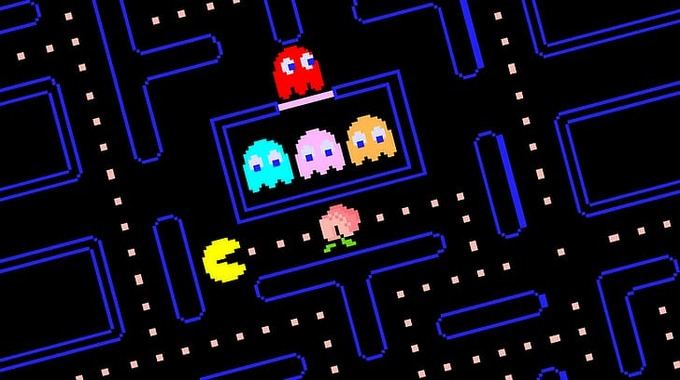
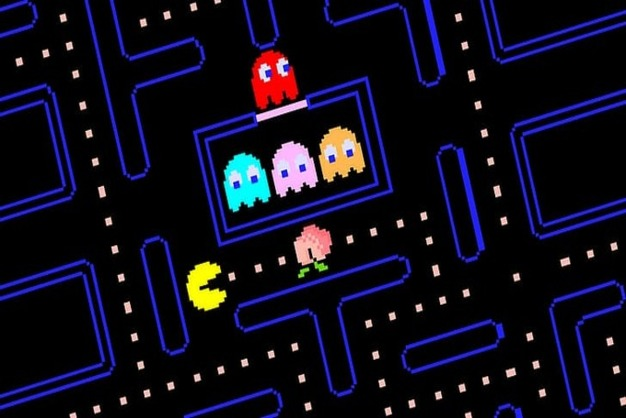
Login page updated

diff --git a/src/components/ErrorPage/ErrorPage.jsx b/src/components/ErrorPage/ErrorPage.jsx
@@ -1,0 +1,76 @@
+import React from 'react';
+
+const ErrorPage = () => {
+    return (
+        <div className="min-h-screen bg-black flex flex-col items-center justify-center p-4 font-mono">
+            <div className="bg-gray-900 border-8 border-gray-800 rounded-lg shadow-2xl p-8 max-w-2xl w-full">
+                <div
+                    className="bg-black text-amber-400 p-6 rounded-md border border-amber-500/20"
+                >
+                    <div className="absolute inset-0 z-10 pointer-events-none opacity-5">
+                        <div className="h-full w-full" style={{
+                            backgroundImage: 'linear-gradient(to bottom, transparent 50%, #2a1d08 50%)',
+                            backgroundSize: '100% 2px',
+                        }}></div>
+                    </div>
+
+
+
+                    <div className="relative z-20">
+                        <header className="mb-8 border-b border-amber-500/50 pb-2">
+                            <h1
+                                className="text-6xl font-extrabold tracking-tight mb-2"
+
+                            >
+                                404
+                            </h1>
+                            <p className="text-xl text-gray-400">Error Code: Page_Not_Found</p>
+                        </header>
+
+                        <section className="space-y-4">
+                            <p className="flex items-center">
+                                <span className="text-amber-300 pr-2">&gt;</span>
+                                Attempting to establish connection with specified directory...
+                            </p>
+                            <p className="flex items-center">
+                                <span className="text-amber-300 pr-2">&gt;</span>
+                                <span className="text-red-500 font-bold">CONNECTION REFUSED.</span> Resource path does not compute.
+                            </p>
+                            <p className="flex items-center">
+                                <span className="text-amber-300 pr-2">&gt;</span>
+                                File or subroutine is currently offline or corrupted.
+                            </p>
+
+                            <div className="pt-6">
+                                <p className="flex items-center mb-4">
+                                    <span className="text-amber-300 pr-2">&gt;</span>
+                                    Please return to the last known stable operating point.
+                                </p>
+
+
+                                <button
+                                    onClick={() => window.location.href = '/'}
+                                    className="px-6 py-3 border-2 border-amber-400 text-amber-400 text-lg uppercase font-bold tracking-widest transition-all duration-300 hover:bg-amber-900/50 rounded-md active:bg-amber-900"
+                                    aria-label="Go back to the homepage"
+                                >
+                                    [ GOTO /HOME ]
+                                </button>
+                            </div>
+                        </section>
+
+                        <footer className="mt-8 pt-4 border-t border-amber-500/50">
+                            <p className="text-sm text-gray-500">
+                                &gt; System Status: <span className="text-yellow-500 font-bold">NON-CRITICAL FAILURE</span>
+                            </p>
+                            <p className="text-sm text-gray-500">
+                                &gt; Console Ready...
+                            </p>
+                        </footer>
+                    </div>
+                </div>
+            </div>
+        </div>
+    );
+};
+
+export default ErrorPage;

diff --git a/src/components/Banner/Banner.jsx b/src/components/Banner/Banner.jsx
@@ -8,27 +8,29 @@ const Banner = () => {
         <div>
 
             <div className="carousel w-full mt-2 border-4 border-black">
-                <div id="item1" className="carousel-item w-full object-contain">
+                <div id="item1" className="carousel-item w-full">
                     <img
                         src={pacMan}
-                        className="w-full" />
+                        className=" w-fit rounded-lg" 
+                        alt="Pac-Man"
+                    />
                 </div>
                 <div id="item2" className="carousel-item w-full">
                     <img
                         src={superMario}
-                        className="w-full" />
+                        className="w-full h-80 object-cover rounded-lg"
+                        alt="Super Mario"
+                    />
                 </div>
                 <div id="item3" className="carousel-item w-full">
                     <img
                         src={spaceInveders}
-                        className="w-full" />
+                        className="w-full h-80 object-cover rounded-lg"
+                        alt="Space Invaders"
+                    />
                 </div>
-                {/* <div id="item4" className="carousel-item w-full">
-                    <img
-                        src="https://img.daisyui.com/images/stock/photo-1665553365602-b2fb8e5d1707.webp"
-                        className="w-full" />
-                </div> */}
             </div>
+
             <div className="flex w-full justify-center gap-2 py-2 ">
                 <a href="#item1" className="p-3 bg-white border-4 border-black rounded hover:bg-[#FFC107] transition-all duration-300 hover:translate-x-[-4px] hover:translate-y-[-4px] hover:shadow-[4px_4px_0px_black] active:translate-x-0 active:translate-y-0 active:shadow-none"></a>
                 <a href="#item2" className="p-3 bg-white border-4 border-black rounded hover:bg-[#FFC107] transition-all duration-300 hover:translate-x-[-4px] hover:translate-y-[-4px] hover:shadow-[4px_4px_0px_black] active:translate-x-0 active:translate-y-0 active:shadow-none"></a>

diff --git a/src/components/GameCard/GameCard.jsx b/src/components/GameCard/GameCard.jsx
@@ -1,32 +1,33 @@
 import React from 'react';
 import { CiStar } from "react-icons/ci";
 
-const GameCard = ({title, rating, category, developer}) => {
+const GameCard = ({title, rating, category, developer,image}) => {
     return (
         <div>
             <div className=" max-w-sm w-full bg-[#e0dcfa] rounded-lg overflow-hidden shadow-2xl border-4 border-black transform transition-all duration-300
           hover:scale-[1.02] shadow-[0_0_20px_rgba(255,80,0,0.5),_0_10px_15px_-3px_rgba(0,0,0,0.5)">
                     <div className="relative h-48 bg-white">
                         <img
-                            src={""}
+                            src={image}
                             alt={""}
                             className="w-full h-full object-cover p-1" 
                         />
 
                         <div className=" absolute top-3 right-3 bg-[#FFC107] text-gray-900 font-extrabold text-sm px-3 py-1 rounded-md border-2 border-black
-              shadow-[2px_2px_0px_rgba(0,0,0,0.5)] ">
-                            <span><CiStar /></span>{rating}
+              shadow-[2px_2px_0px_rgba(0,0,0,0.5)] flex items-center gap-1">
+                            <span><CiStar /></span>
+                            <span>{rating}</span>
                         </div>
                     </div>
 
                     <div className="p-6">
                         
                         <div className="mb-4 border-b-2 border-[#aac5da] pb-3">
-                            <h1 className="text-3xl font-black text-black uppercase tracking-widest leading-tight">
+                            <h1 className="text-xl font-black text-black uppercase tracking-widest leading-tight">
                                 {title}
                             </h1>
                             <p className="text-sm text-black mt-1 font-semibold">
-                                {category} | Dev: {developer}
+                                {category} | Developed By {developer}
                             </p>
                         </div>
 

diff --git a/src/pages/Home/Home.jsx b/src/pages/Home/Home.jsx
@@ -2,12 +2,13 @@ import React from 'react';
 import Banner from '../../components/Banner/Banner';
 import GameCard from '../../components/GameCard/GameCard';
 import useFetchGames from '../../hooks/useFetchGames';
+import Marquee from "react-fast-marquee";
 
 const Home = () => {
 
     const { allGames } = useFetchGames();
 
-    const featuredGame = allGames.slice(0, 6);
+    const featuredGame = allGames.slice(0, 3);
 
     return (
         <div>
@@ -30,6 +31,12 @@ const Home = () => {
             ) : (
                 <p className="text-center mt-5 text-gray-600">No featured games available.</p>
             )} */}
+
+            <Marquee className='bg-[#FFC107] p-4 mt-6 mb-6'>
+                <div className=' text-black text-xl font-bold space-mono'>
+                    <p>Relive the nostalgia, discover timeless classics, and celebrate the magic of retro gaming at Retro Game Hub!</p>
+                </div>
+            </Marquee>
 
 
             {featuredGame.filter(game => game.ratings > 4.5).length > 0 ? (

diff --git a/src/pages/Auth/Login.jsx b/src/pages/Auth/Login.jsx
@@ -1,5 +1,5 @@
 import { signInWithEmailAndPassword } from 'firebase/auth';
-import React , {useState}from 'react';
+import React, { useState } from 'react';
 import { Link } from 'react-router';
 import { auth } from '../../firebase/firebase.config';
 import { toast } from 'react-toastify';
@@ -73,6 +73,10 @@ const Login = () => {
                             {show ? <GoEye /> : <GoEyeClosed />}
                         </span>
                     </div>
+
+                    
+                   <Link to='/resetpassword' className="text-[#444] underline">Forget password?</Link>
+                    
 
                     <button
                         type="submit"

diff --git a/src/routes/routes.jsx b/src/routes/routes.jsx
@@ -6,15 +6,18 @@ import Register from "../pages/Auth/Register";
 import About from "../pages/About/About";
 import Developer from "../pages/Developer/Developer";
 import MyProfile from "../pages/Profile/MyProfile";
+import Error from "../pages/Error/Error";
 
 const router = createBrowserRouter([
     {
         path: "/",
         Component: MainLayout,
+        errorElement: <Error></Error>,
         children: [
             {
                 index: true,
-                Component: Home
+                Component: Home,
+                
             },
             {
                 path: '/about',

diff --git a/src/pages/Error/Error.jsx b/src/pages/Error/Error.jsx
@@ -1,0 +1,27 @@
+import React from 'react';
+import ErrorPage from '../../components/ErrorPage/ErrorPage';
+import Footer from '../../components/Footer/Footer';
+import Header from '../../components/Header/Header';
+
+const Error = () => {
+    return (
+
+        <div>
+
+            <Header></Header>
+            <ErrorPage></ErrorPage>
+            <Footer></Footer>
+
+
+        </div>
+
+
+
+
+
+
+
+    );
+};
+
+export default Error;

diff --git a/src/pages/Auth/ForgotPassword.jsx b/src/pages/Auth/ForgotPassword.jsx
@@ -1,0 +1,11 @@
+import React from 'react';
+
+const ForgotPassword = () => {
+    return (
+        <div>
+            
+        </div>
+    );
+};
+
+export default ForgotPassword;
